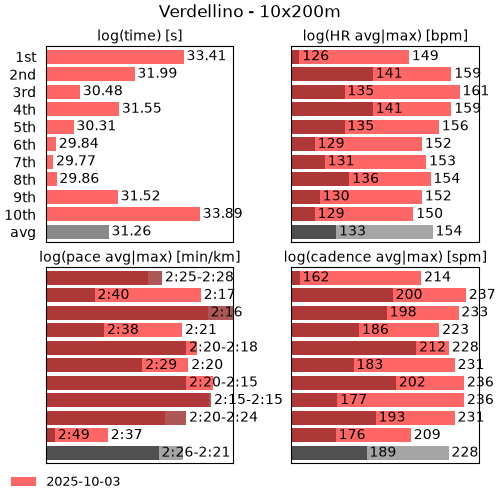
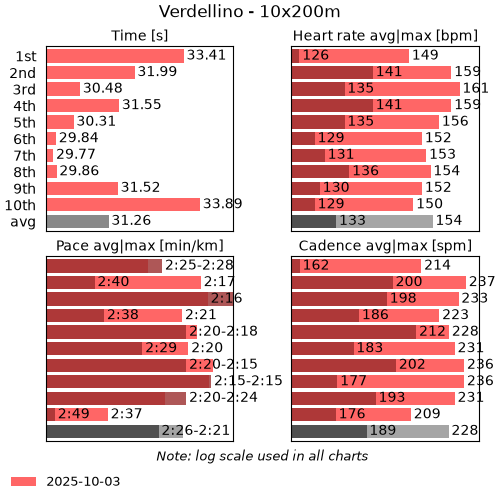
feat(sport-analysis): simplify legend text (eg. MA(pace) -> Pace; log(time) -> Time)

diff --git a/projects/sport-analysis/sport_analysis/plot/plot_interval_run_api/plot_interval_run_api_cmd.py b/projects/sport-analysis/sport_analysis/plot/plot_interval_run_api/plot_interval_run_api_cmd.py
@@ -249,7 +249,7 @@ class PlotIntervalRunApiCmd(base_api.MixinGarminRequestsApi, base_plot.MixinBarH
         # Invert the y-axis so the 1st attempt is on top.
         a.invert_yaxis()
         # Axes labels.
-        a.set_xlabel("log(time) [s]")
+        a.set_xlabel("Time [s]")
         # Set the x-axis label to the top.
         a.xaxis.set_label_position("top")
         # Use log scale to amplify the small differences.
@@ -373,7 +373,7 @@ class PlotIntervalRunApiCmd(base_api.MixinGarminRequestsApi, base_plot.MixinBarH
         ## Format.
         # Invert the y-axis so the 1st attempt is on top.
         a.invert_yaxis()
-        a.set_xlabel("log(pace avg|max) [min/km]")
+        a.set_xlabel("Pace avg|max [min/km]")
         # Set the x-axis label to the top.
         a.xaxis.set_label_position("top")
         # Use log scale to amplify the small differences.
@@ -508,7 +508,7 @@ class PlotIntervalRunApiCmd(base_api.MixinGarminRequestsApi, base_plot.MixinBarH
         ## Format.
         # Invert the y-axis so the 1st attempt is on top.
         a.invert_yaxis()
-        a.set_xlabel("log(cadence avg|max) [spm]")
+        a.set_xlabel("Cadence avg|max [spm]")
         # Set the x-axis label to the top.
         a.xaxis.set_label_position("top")
         # Use log scale to amplify the small differences.
@@ -633,7 +633,7 @@ class PlotIntervalRunApiCmd(base_api.MixinGarminRequestsApi, base_plot.MixinBarH
         ## Format.
         # Invert the y-axis so the 1st attempt is on top.
         a.invert_yaxis()
-        a.set_xlabel("log(HR avg|max) [bpm]")
+        a.set_xlabel("Heart rate avg|max [bpm]")
         # Set the x-axis label to the top.
         a.xaxis.set_label_position("top")
         # Use log scale to amplify the small differences.
@@ -654,6 +654,22 @@ class PlotIntervalRunApiCmd(base_api.MixinGarminRequestsApi, base_plot.MixinBarH
             # right=False,
             labelbottom=False,  # Ticks labels along the bottom are off.
             labelleft=False,
+        )
+
+    def _write_note_on_log_scale(self):
+        a: Axes = self._axes_mosaic["note"]
+        a.set_axis_off()
+        a.annotate(
+            "Note: log scale used in all charts",
+            ((a.get_xlim()[1] - a.get_xlim()[0]) / 2, a.get_ylim()[0]),
+            xytext=(0, 0),
+            textcoords="offset fontsize",
+            # color=COL_DARK_RED,
+            # alpha=0.8,
+            fontsize=9,
+            # fontweight="bold",
+            style="italic",
+            horizontalalignment="center",
         )
 
     def plot(self, save_to_png_file_path: Path | str | None = None):
@@ -759,6 +775,7 @@ class PlotIntervalRunApiCmd(base_api.MixinGarminRequestsApi, base_plot.MixinBarH
         self._plot_pace()
         self._plot_cadence()
         self._plot_hr()
+        self._write_note_on_log_scale()
 
         title = (
             self.title
@@ -809,12 +826,13 @@ class PlotIntervalRunApiCmd(base_api.MixinGarminRequestsApi, base_plot.MixinBarH
                 # 2 rows, 2 col.
                 ["time", "hr"],
                 ["pace", "cadence"],
+                ["note", "note"],
             ],
             # fmt: on
             gridspec_kw=dict(
                 # The relative sizes of the subplots.
                 width_ratios=[1, 1],
-                height_ratios=[1, 1],
+                height_ratios=[1, 1, 0.05],
             ),
             figsize=self._make_figure_size(),
             layout="constrained",

diff --git a/projects/sport-analysis/sport_analysis/plot/plot_run_api/base_plot_run_api.py b/projects/sport-analysis/sport_analysis/plot/plot_run_api/base_plot_run_api.py
@@ -227,7 +227,7 @@ class BasePlotRunApi(ABC, base_api.MixinGarminRequestsApi, base_plot.MixinHrPlot
 
         ## Format.
         # Axes labels.
-        a.set_ylabel("MA(pace) [min/km]")
+        a.set_ylabel("Pace [min/km]")
         a.set_xlabel("Distance [km]")
         # axes.xaxis.set_label_position("top")
         # Invert the y-axis so the fastest pace is on top.
@@ -269,7 +269,7 @@ class BasePlotRunApi(ABC, base_api.MixinGarminRequestsApi, base_plot.MixinHrPlot
         )
         # Write text annotation for MA window size.
         a.annotate(
-            f"MA window: ~{round(rolling_window_avg_time)}s, ~{round(rolling_window_avg_distance)}m",
+            f"MA(pace) window: ~{round(rolling_window_avg_time)}s, ~{round(rolling_window_avg_distance)}m",
             (a.get_xlim()[0], a.get_ylim()[0]),
             xytext=(0.1, 0.1),
             textcoords="offset fontsize",

diff --git a/projects/sport-analysis/TODO.md b/projects/sport-analysis/TODO.md
@@ -1,6 +1,5 @@
 
 
-- scritta semplice: rimuovi MA(pace)
 - sotto le barre orizzontale delle HR zone scrivere tutte le perc:
   Z0 1%, Z1 3%, ...
 - replace get_string_from_env() e override_settings in settings_module.py con settings_utils lib
